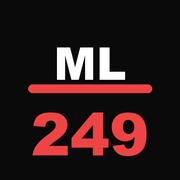
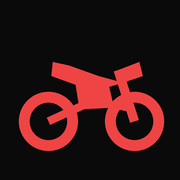
Cambia el icono por la moto delineada
El logotipo pasa de las letras ML/249 a una moto de perfil con trazo rojo
sobre el cuadro negro. Se dibujo en varias versiones y Hector eligio la de
silueta deportiva.

A 16 px se compacta y lee como una silueta de dos ruedas; a 32 y 48 ya se
distingue la moto. Es lo normal en cualquier icono con forma, y conserva
el color de marca a cualquier tamano.

Nombres nuevos otra vez a proposito: Google cachea el favicon por URL, asi
que reusar los anteriores habria dejado el icono viejo. Se eliminan los
que quedaron sin uso y /favicon.ico se actualiza tambien, que es el que
algunos clientes piden por convencion.

Changed region(s): [[0.0833, 0.25, 0.9167, 0.8889]]

diff --git a/index.html b/index.html
@@ -48,9 +48,13 @@
          segun el aparato no es un icono de marca. El PNG y el .ico son
          pixeles y se ven igual en todos lados, y 192 es multiplo de 48,
          que es lo que Google pide. El SVG se queda en public/ como
-         original del diseno. -->
-    <link rel="icon" type="image/png" sizes="192x192" href="/icono-ml249-192.png">
-    <link rel="icon" href="/icono-ml249.ico" sizes="48x48">
+         original del diseno.
+
+         25-sep: el icono paso de las letras ML/249 a la moto delineada.
+         Nombres nuevos otra vez a proposito, por lo mismo: Google cachea
+         el favicon por URL. -->
+    <link rel="icon" type="image/png" sizes="192x192" href="/logo-moto-192.png">
+    <link rel="icon" href="/logo-moto.ico" sizes="48x48">
     <link rel="apple-touch-icon" href="/apple-touch-icon.png">
     <!-- El canonical y la description los pone react-helmet por pagina (ver
          src/pages/*). Aqui no van, o cada pagina termina con dos. Los og si

diff --git a/src/pages/NewsArticlePage.tsx b/src/pages/NewsArticlePage.tsx
@@ -51,7 +51,7 @@ const NewsArticlePage = () => {
             // Raster y no el SVG: el SVG dibuja el logotipo con una fuente
             // del sistema, y quien lo rasterice sin esa fuente obtiene
             // otra cosa. Google pide ademas un logo que pueda mostrar.
-            url: `${siteUrl}/icono-ml249-192.png`,
+            url: `${siteUrl}/logo-moto-192.png`,
           },
         },
         mainEntityOfPage: {
